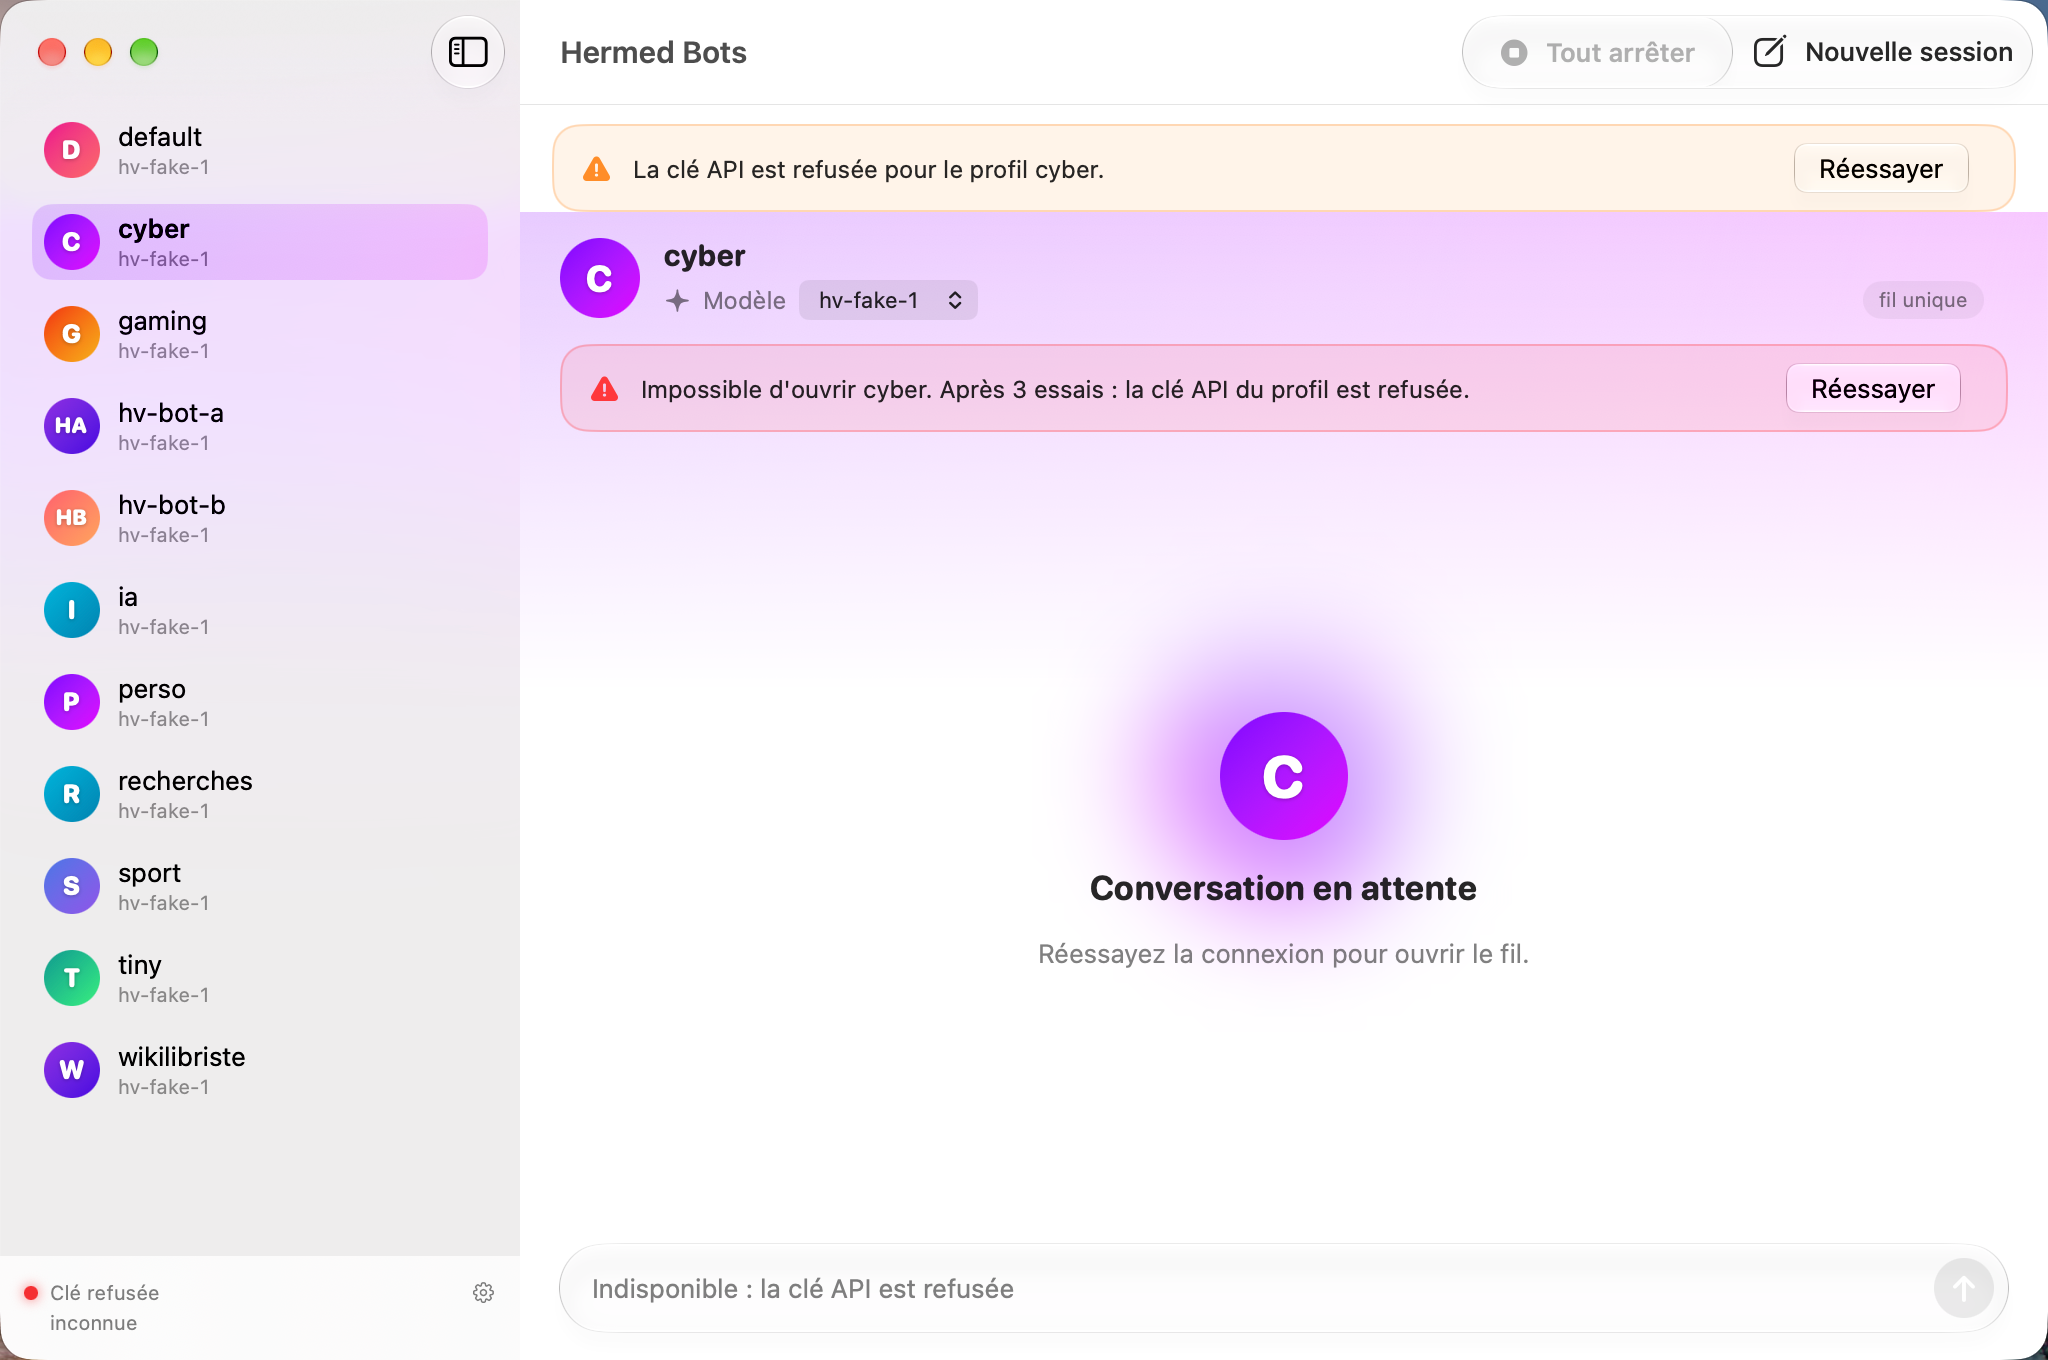
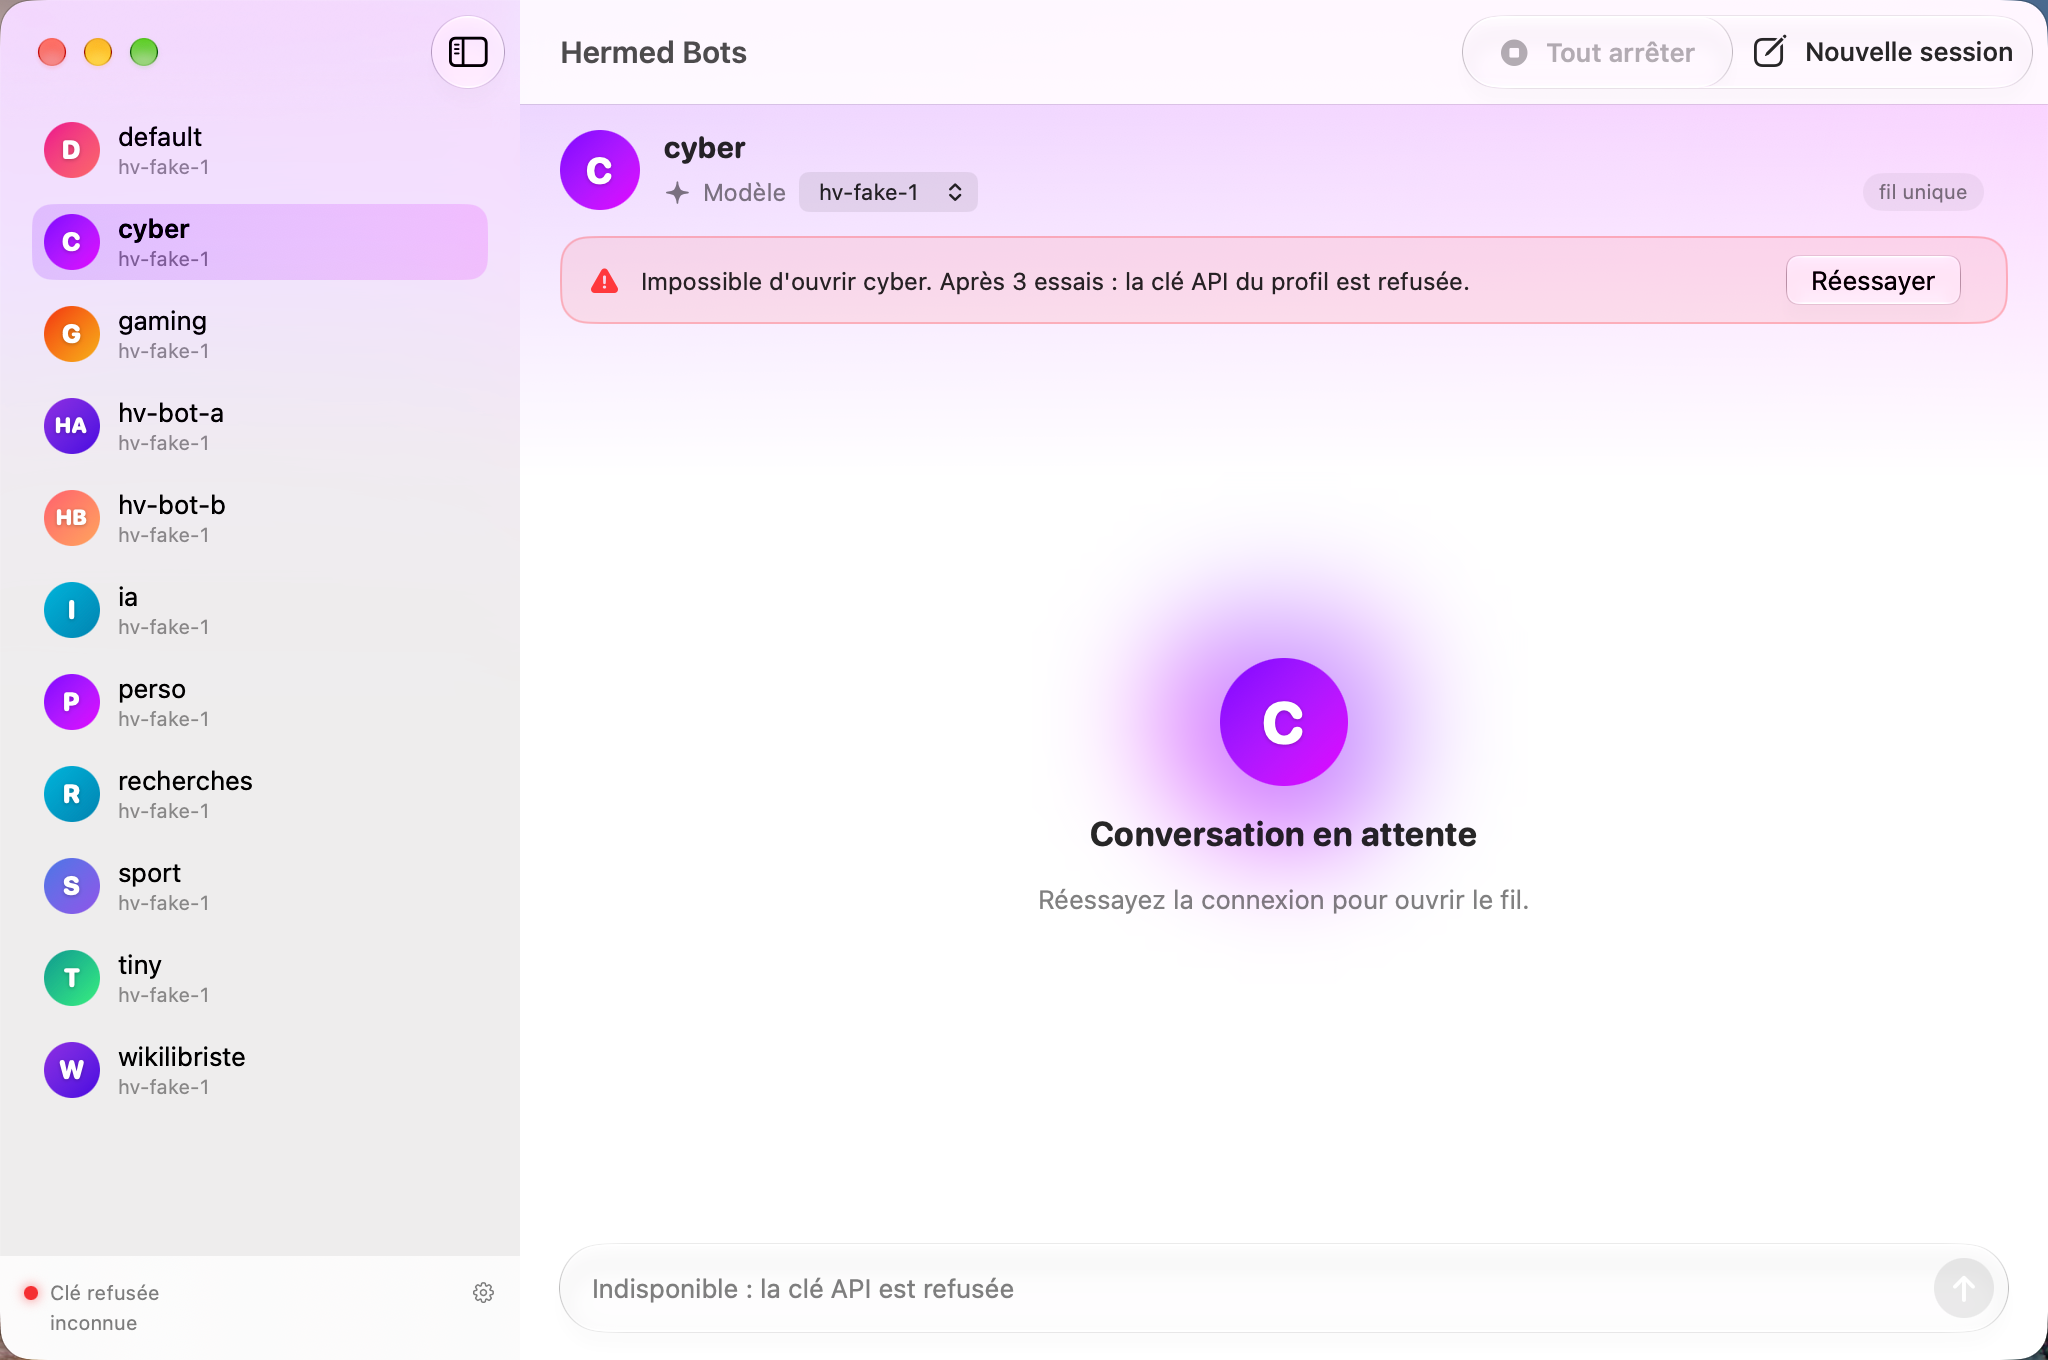
fix(ui): un seul bandeau pour une clé API refusée (#116)
Fusionné-par: lanceur Dev Lead

Changed region(s): [[0.25, 0.0618, 1.0, 0.3706], [0.5, 0.4324, 0.75, 0.7103]]

diff --git a/HermedBotsTests/SSHConfigTests.swift b/HermedBotsTests/SSHConfigTests.swift
@@ -1530,6 +1530,54 @@ final class AppModelConnectTests: XCTestCase {
         XCTAssertFalse(model.isCheckingAPI)
     }
 
+    /// Une clé détenue refusée à l'ouverture du chat unique : `openError` seulement, pas `apiError`
+    func testARefusedKeyDuringOpenDoesNotSetTheGlobalBanner() async {
+        let reads = KeyReads { count, _ in count <= 3 ? "short-key" : nil }
+        let model = keyModel(keys: ["hv-bot-a": "held-key"], profiles: ["hv-bot-a"], reads: reads) { _ in 401 }
+        await model.bots.refresh()
+        model.conversation.activate(bot: "hv-bot-a")
+        let deadline = Date().addingTimeInterval(8)
+        while Date() < deadline {
+            if model.conversation.openError != nil, !model.conversation.isOpening, !model.isCheckingAPI { break }
+            try? await Task.sleep(for: .milliseconds(20))
+        }
+        XCTAssertTrue(model.conversation.openError?.contains("clé API") == true, model.conversation.openError ?? "")
+        XCTAssertFalse(model.conversation.isOpening)
+        XCTAssertFalse(model.isCheckingAPI)
+        XCTAssertNil(model.apiError)
+    }
+
+    /// Refus, clé corrigée sur l'hôte, puis « Réessayer » du bandeau en ligne : la lecture SSH repart et l'ouverture réussit
+    func testInlineRetryAfterARefusedKeyReadsTheCorrectedKeyOverSSH() async {
+        final class Remote { var key = "stale-key" }
+        let remote = Remote()
+        let reads = KeyReads { _, _ in remote.key }
+        let model = keyModel(keys: ["hv-bot-a": "held-key"], profiles: ["hv-bot-a"], reads: reads) {
+            $0.value(forHTTPHeaderField: "Authorization")?.hasSuffix("fixed-key") == true ? 200 : 401
+        }
+        await model.bots.refresh()
+        func settle() async {
+            let deadline = Date().addingTimeInterval(10)
+            while Date() < deadline {
+                if !model.conversation.isOpening, !model.isCheckingAPI { break }
+                try? await Task.sleep(for: .milliseconds(20))
+            }
+        }
+        model.conversation.activate(bot: "hv-bot-a")
+        await settle()
+        XCTAssertTrue(model.conversation.openError?.contains("clé API") == true, model.conversation.openError ?? "")
+        XCTAssertNil(model.apiError)
+        let readsBeforeRetry = reads.profiles.count
+        XCTAssertGreaterThanOrEqual(readsBeforeRetry, 1)
+        remote.key = "fixed-key"
+        model.conversation.retryOpen()
+        await settle()
+        XCTAssertGreaterThan(reads.profiles.count, readsBeforeRetry)
+        XCTAssertNil(model.conversation.openError, model.conversation.openError ?? "")
+        XCTAssertNil(model.apiError)
+        XCTAssertTrue(KeyStubProtocol.probes.contains { $0.authorization?.hasSuffix("fixed-key") == true && $0.status == 200 })
+    }
+
     /// `/health` répond 200 : les sondes authentifiées reçoivent 401, la lecture de la clé part et l'outil manque sur l'hôte
     func testAMissingToolOnTheHostIsNamedWhenTheKeyCannotBeRead() async {
         let reads = KeyReads(failure: SSHFailure.remoteToolNotFound) { _, _ in nil }

diff --git a/HermedBots/App/AppModel.swift b/HermedBots/App/AppModel.swift
@@ -53,6 +53,7 @@ final class AppModel {
         },
         onAPIRecovered: { [unowned self] in self.apiError = nil },
         onAPIError: { [unowned self] error, profile in Task { await self.handleAPIError(error, profile: profile) } },
+        onRetryOpen: { [unowned self] in self.apiKeyFetches.reset() },
         notifyPause: { [unowned self] cause in await self.notifyPause(cause) }
     )
     @ObservationIgnored lazy var profileLock = ProfileLock(
@@ -630,7 +631,14 @@ final class AppModel {
         let holdsKey = (try? environment.secrets.resolvedAPIKey(profile: profile)) != nil
         let message = HermesAPIKey.unauthorizedMessage(profile: profile, holdsKey: holdsKey)
         refusal = (profile, message)
+        // le chat unique dit déjà ce refus : le bandeau global ne le reprend pas
+        if holdsKey, conversationPresentsRefusedKey(profile) { return }
         apiError = message
+    }
+
+    /// Le bandeau en ligne du bot à l'écran porte ce refus, pendant l'ouverture ou après les essais
+    private func conversationPresentsRefusedKey(_ profile: String) -> Bool {
+        conversation.botID == profile && (conversation.isOpening || conversation.openError != nil)
     }
 
     /// La cause de la lecture ratée remplace « introuvable » ; « Réessayer » relit la clé de ce profil
@@ -821,7 +829,6 @@ final class AppModel {
             testTunnelFailed = true
             bots.seedShown([bot])
             conversation.seedShot(bot: bot.id, session: nil, isOpening: false, openError: "Impossible d'ouvrir shot-bot. Après 3 essais : la clé API du profil est refusée.")
-            apiError = String(localized: "La clé API est refusée.")
         case .emptyHome:
             bots.seedShown([])
         case .emptyConversation:

diff --git a/HermedBots/Conversation/ConversationModel.swift b/HermedBots/Conversation/ConversationModel.swift
@@ -118,6 +118,7 @@ final class ConversationModel {
     private let listedThread: @MainActor (String, String) -> (model: String?, read: Int)?
     private let startedReads: @MainActor () -> Int
     private let onAPIError: @MainActor (Error, String) -> Void
+    private let onRetryOpen: @MainActor () -> Void
     private let notifyPause: @Sendable (LoopGuard.Cause) async -> String
     private let approvalRetry: Duration
     let profileLock: ProfileLock?
@@ -140,6 +141,7 @@ final class ConversationModel {
         startRun: (@MainActor (String, String, String, String?, String) async throws -> String)? = nil,
         onAPIRecovered: @escaping @MainActor () -> Void = {},
         onAPIError: @escaping @MainActor (Error, String) -> Void = { _, _ in },
+        onRetryOpen: @escaping @MainActor () -> Void = {},
         notifyPause: @escaping @Sendable (LoopGuard.Cause) async -> String = { _ in "Notification indisponible." }
     ) {
         self.resumeStore = resumeStore
@@ -155,6 +157,7 @@ final class ConversationModel {
         self.profileLock = profileLock
         self.notifyPause = notifyPause
         self.onAPIError = onAPIError
+        self.onRetryOpen = onRetryOpen
     }
 
     #if DEBUG
@@ -287,8 +290,10 @@ final class ConversationModel {
         Task { await attachUniqueSession(bot: id, on: host) }
     }
 
+    /// « Réessayer » du bandeau en ligne rouvre aussi la lecture SSH de la clé que le refus précédent avait fermée
     func retryOpen() {
         guard let botID else { return }
+        onRetryOpen()
         isOpening = true
         openError = nil
         let host = connection()

diff --git a/HermedBotsUITests/VersionProfiles.swift b/HermedBotsUITests/VersionProfiles.swift
@@ -150,15 +150,17 @@ final class VersionProfiles: HD12Harness {
         waitForVersion("profile-a")
         configureVersion("profile-b", rejectKey: true)
         click(AccessibilityID.botRow(b))
-        let banner = element(AccessibilityID.bannerError.rawValue)
-        XCTAssertTrue(banner.waitForExistence(timeout: 15))
-        XCTAssertTrue(text(banner.identifier).contains("clé API est refusée"))
+        let inline = element(AccessibilityID.conversationError.rawValue)
+        XCTAssertTrue(inline.waitForExistence(timeout: 15))
+        XCTAssertTrue(text(inline.identifier).contains("clé API"))
+        XCTAssertFalse(element(AccessibilityID.bannerError.rawValue).exists)
         waitForVersion("inconnue")
         XCTAssertTrue(request("/_hv/log").contains { $0["p"] as? String == "/p/\(b)/health" && $0["s"] as? Int == 401 && ($0["t"] as? Double ?? 0) >= started })
         HVShot.capture("issue58-version-401", app)
         configureVersion("profile-a")
         click(AccessibilityID.botRow(a))
         waitForVersion("profile-a")
-        XCTAssertFalse(banner.exists)
+        XCTAssertTrue(inline.waitForNonExistence(timeout: 15))
+        XCTAssertFalse(element(AccessibilityID.bannerError.rawValue).exists)
     }
 }

diff --git a/HermedBotsUITests/ProfileKeys.swift b/HermedBotsUITests/ProfileKeys.swift
@@ -49,8 +49,9 @@ final class ProfileKeys: HD12Harness {
         app.launch()
         self.app = app
         click(AccessibilityID.botRow("cyber"))
-        XCTAssertTrue(element(AccessibilityID.bannerError.rawValue).waitForExistence(timeout: 20))
-        XCTAssertTrue(text(AccessibilityID.bannerError.rawValue).contains("clé API"))
+        XCTAssertTrue(element(AccessibilityID.conversationError.rawValue).waitForExistence(timeout: 20))
+        XCTAssertTrue(text(AccessibilityID.conversationError.rawValue).contains("clé API"))
+        XCTAssertFalse(element(AccessibilityID.bannerError.rawValue).exists)
         XCTAssertTrue(
             element(AccessibilityID.conversationOpening.rawValue).waitForNonExistence(timeout: 20),
             "hd.conversation.opening reste après l'échec définitif de la clé"

diff --git a/HermedBotsTests/AccessibilityIDTests.swift b/HermedBotsTests/AccessibilityIDTests.swift
@@ -66,6 +66,7 @@ final class AccessibilityIDTests: XCTestCase {
         XCTAssertEqual(AccessibilityID.conversationEmpty.rawValue, "hd.conversation.empty")
         XCTAssertEqual(AccessibilityID.conversationBusy.rawValue, "hd.conversation.busy")
         XCTAssertEqual(AccessibilityID.conversationError.rawValue, "hd.conversation.error")
+        XCTAssertEqual(AccessibilityID.conversationErrorRetry.rawValue, "hd.conversation.error.retry")
         XCTAssertEqual(AccessibilityID.composerInput.rawValue, "hd.composer.input")
         XCTAssertEqual(AccessibilityID.composerSend.rawValue, "hd.composer.send")
         XCTAssertEqual(AccessibilityID.sessionNew.rawValue, "hd.session.new")

diff --git a/HermedBots/Shared/AccessibilityID.swift b/HermedBots/Shared/AccessibilityID.swift
@@ -18,6 +18,7 @@ enum AccessibilityID: String, CaseIterable {
     case conversationEmpty = "hd.conversation.empty"
     case conversationBusy = "hd.conversation.busy"
     case conversationError = "hd.conversation.error"
+    case conversationErrorRetry = "hd.conversation.error.retry"
     case profileLock = "hd.profile.lock"
     case composerInput = "hd.composer.input"
     case composerSend = "hd.composer.send"

diff --git a/HermedBots/Conversation/ConversationView.swift b/HermedBots/Conversation/ConversationView.swift
@@ -44,7 +44,7 @@ struct ConversationView: View {
                         Spacer(minLength: 0)
                         Button("Réessayer") { model.retryOpen() }
                             .buttonStyle(.glass)
-                            .accessibilityID(.bannerErrorRetry)
+                            .accessibilityID(.conversationErrorRetry)
                     }
                 }
                 .column()
